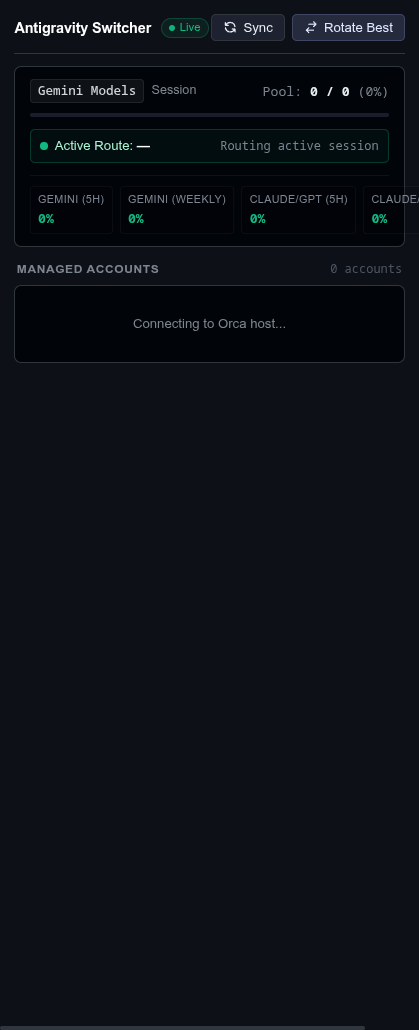
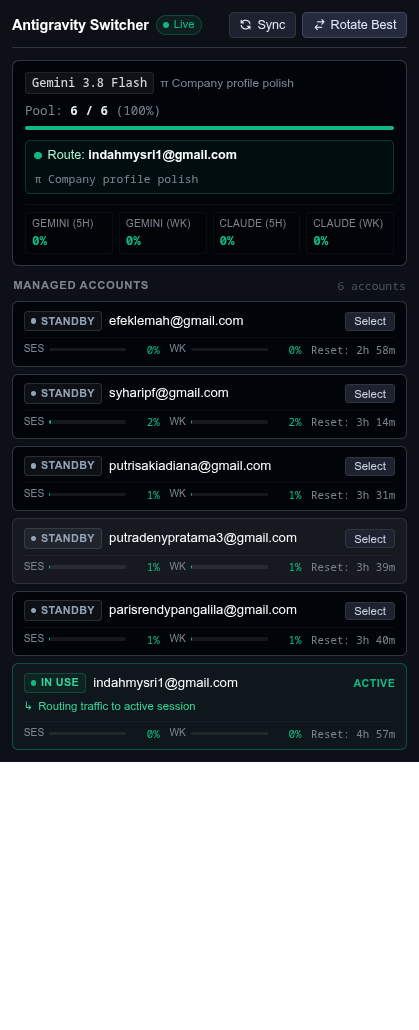
fix: align usage percentage scale to 0-100 directly matching native Orca

diff --git a/panel/index.html b/panel/index.html
@@ -679,8 +679,8 @@
     }
 
     function getMeterColor(val) {
-      if (val >= 1.0) return 'var(--danger)';
-      if (val >= 0.75) return 'var(--warning)';
+      if (val >= 100) return 'var(--danger)';
+      if (val >= 80) return 'var(--warning)';
       return 'var(--success)';
     }
 
@@ -719,7 +719,7 @@
         const setB = (id, idx) => {
           const el = document.getElementById(id);
           if (el && b[idx]) {
-            const p = Math.min(100, Math.round((b[idx].usedPercent || 0) * 100));
+            const p = Math.min(100, Math.round(b[idx].usedPercent || 0));
             el.textContent = `${p}%`;
             el.style.color = getMeterColor(b[idx].usedPercent || 0);
           }
@@ -729,8 +729,8 @@
         setB('bClaude5h', 2);
         setB('bClaudeWeekly', 3);
       } else if (activeAcc) {
-        const sPct = Math.min(100, Math.round((activeAcc.sessionUsed || 0) * 100));
-        const wPct = Math.min(100, Math.round((activeAcc.weeklyUsed || 0) * 100));
+        const sPct = Math.min(100, Math.round(activeAcc.sessionUsed || 0));
+        const wPct = Math.min(100, Math.round(activeAcc.weeklyUsed || 0));
         const g5 = document.getElementById('bGemini5h');
         const gw = document.getElementById('bGeminiWeekly');
         if (g5) { g5.textContent = `${sPct}%`; g5.style.color = getMeterColor(activeAcc.sessionUsed || 0); }
@@ -762,8 +762,8 @@
           statusHtml = '<span class="status-pill pill-ready"><span class="pill-dot"></span>Standby</span>';
         }
 
-        const sessionPct = Math.min(100, Math.round((acc.sessionUsed || 0) * 100));
-        const weeklyPct = Math.min(100, Math.round((acc.weeklyUsed || 0) * 100));
+        const sessionPct = Math.min(100, Math.round(acc.sessionUsed || 0));
+        const weeklyPct = Math.min(100, Math.round(acc.weeklyUsed || 0));
         const sColor = getMeterColor(acc.sessionUsed || 0);
         const wColor = getMeterColor(acc.weeklyUsed || 0);
 

diff --git a/test_rotator.py b/test_rotator.py
@@ -23,8 +23,8 @@ class TestAccountManager(unittest.TestCase):
         # acc2: exhausted, 100% used
         # acc3: fresh, 0% used
         accounts = [
-            AccountInfo(id="1", email="active@gmail.com", is_active=True, session_used=1.0, weekly_used=1.0),
-            AccountInfo(id="2", email="exhausted@gmail.com", is_active=False, session_used=1.0, weekly_used=1.0),
+            AccountInfo(id="1", email="active@gmail.com", is_active=True, session_used=100.0, weekly_used=100.0),
+            AccountInfo(id="2", email="exhausted@gmail.com", is_active=False, session_used=100.0, weekly_used=100.0),
             AccountInfo(id="3", email="fresh@gmail.com", is_active=False, session_used=0.0, weekly_used=0.0),
         ]
 
@@ -36,8 +36,8 @@ class TestAccountManager(unittest.TestCase):
 
     def test_all_accounts_exhausted_scenario(self):
         accounts = [
-            AccountInfo(id="1", email="acc1@gmail.com", is_active=True, session_used=1.0, weekly_used=1.0, session_resets_at=2000000),
-            AccountInfo(id="2", email="acc2@gmail.com", is_active=False, session_used=1.0, weekly_used=1.0, session_resets_at=1000000),
+            AccountInfo(id="1", email="acc1@gmail.com", is_active=True, session_used=100.0, weekly_used=100.0, session_resets_at=2000000),
+            AccountInfo(id="2", email="acc2@gmail.com", is_active=False, session_used=100.0, weekly_used=100.0, session_resets_at=1000000),
         ]
 
         with patch.object(self.mgr, "fetch_accounts", return_value=(accounts, "1", accounts[0])):
@@ -50,7 +50,7 @@ class TestAccountManager(unittest.TestCase):
 
     def test_round_robin_selection(self):
         accounts = [
-            AccountInfo(id="1", email="acc1@gmail.com", is_active=True, session_used=1.0, weekly_used=1.0),
+            AccountInfo(id="1", email="acc1@gmail.com", is_active=True, session_used=100.0, weekly_used=100.0),
             AccountInfo(id="2", email="acc2@gmail.com", is_active=False, session_used=0.0, weekly_used=0.0),
             AccountInfo(id="3", email="acc3@gmail.com", is_active=False, session_used=0.0, weekly_used=0.0),
         ]

diff --git a/rotator/account_manager.py b/rotator/account_manager.py
@@ -17,7 +17,7 @@ class AccountInfo:
     id: str
     email: str
     is_active: bool
-    session_used: float = 0.0  # 0.0 = 0% used, 1.0 = 100% used, 2.0 = over quota
+    session_used: float = 0.0  # Percentage 0-100 (e.g. 2 = 2%, 100 = 100% limit)
     weekly_used: float = 0.0
     session_resets_at: Optional[int] = None  # epoch ms
     weekly_resets_at: Optional[int] = None  # epoch ms
@@ -25,8 +25,8 @@ class AccountInfo:
 
     @property
     def is_exhausted(self) -> bool:
-        """Account is considered exhausted if session or weekly used >= 100% (1.0)."""
-        return self.session_used >= 1.0 or self.weekly_used >= 1.0
+        """Account is considered exhausted if session or weekly used >= 100%."""
+        return self.session_used >= 100.0 or self.weekly_used >= 100.0
 
     @property
     def earliest_reset_timestamp(self) -> Optional[int]:

diff --git a/rotator/live_view.py b/rotator/live_view.py
@@ -107,9 +107,9 @@ def run_live_monitor(config: RotatorConfig):
 
                 session_used = acc.session_used
                 weekly_used = acc.weekly_used
-                session_pct = f"{int(min(1.0, session_used) * 100)}%"
-                weekly_pct = f"{int(min(1.0, weekly_used) * 100)}%"
-                session_bar = format_progress_bar(session_used, width=6)
+                session_pct = f"{int(session_used)}%"
+                weekly_pct = f"{int(weekly_used)}%"
+                session_bar = format_progress_bar(session_used / 100.0, width=6)
                 reset_str = format_ms_timestamp(acc.earliest_reset_timestamp)
 
                 if is_active:

diff --git a/main.py b/main.py
@@ -156,8 +156,8 @@ def cmd_accounts(args, config: RotatorConfig):
             prefix = " "
             email_display = email_str
 
-        session_pct = f"{min(100, int(acc.session_used * 100))}%"
-        weekly_pct = f"{min(100, int(acc.weekly_used * 100))}%"
+        session_pct = f"{int(acc.session_used)}%"
+        weekly_pct = f"{int(acc.weekly_used)}%"
         reset_str = format_ms_timestamp(acc.earliest_reset_timestamp)
 
         col_status = pad_ansi(f"{prefix} {quota_tag}", 15)
